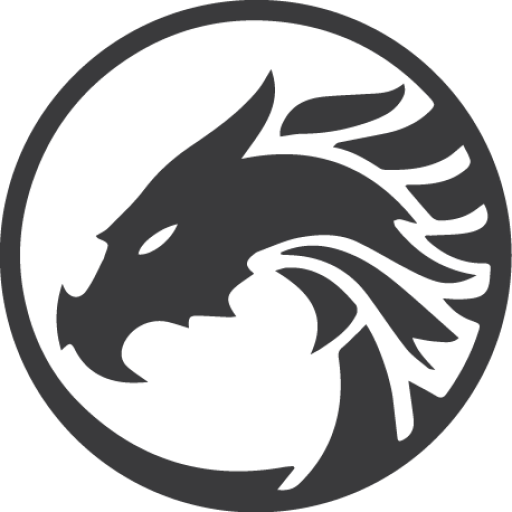
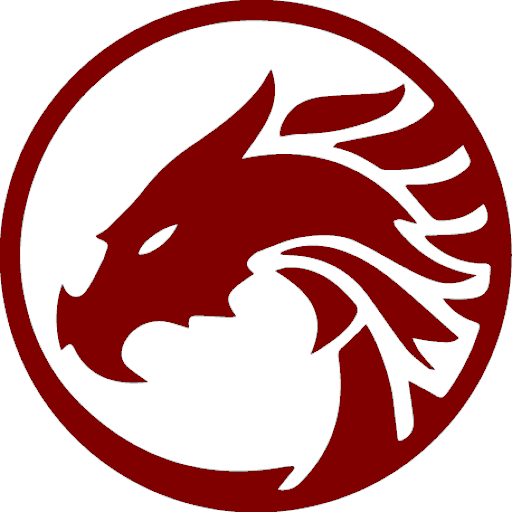
footerIcon

diff --git a/src/components/layout/Footer/Footer.tsx b/src/components/layout/Footer/Footer.tsx
@@ -34,6 +34,7 @@ export default function Footer() {
             <div className="footer-credits">
                 <p>
                     {"\u00A9"} 2025 Dragon's Hoard. All Rights Reserved | Crafted by <a href="https://rainhunt.github.io/webPortfolio/" target="_blank">Rain Made Studios</a>
+                    <img src="/icon-placeholder.png" alt="Logo" aria-label="head of a dragon in deep red" />
                 </p>
             </div>
         </footer>

diff --git a/src/components/layout/Footer/footer.scss b/src/components/layout/Footer/footer.scss
@@ -56,6 +56,12 @@ footer {
             background: none;
             cursor: pointer;
         }
+
+        img {
+            height: 1.5rem;
+            padding-left: 1rem;
+            transform: translateY(20%);
+        }
     }
 
     @include tablet {
